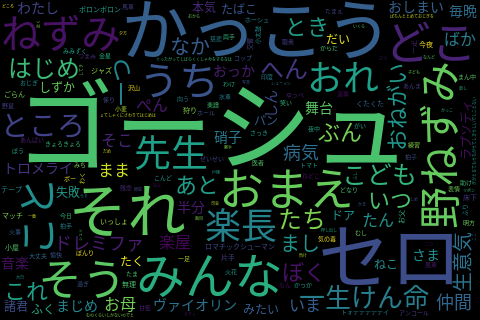
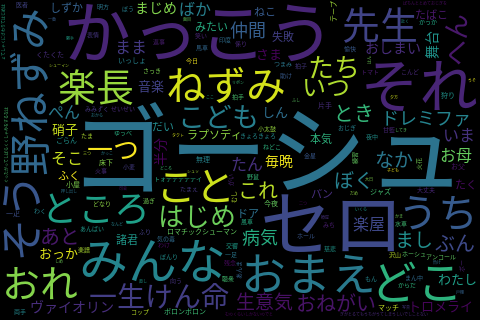
2020/01/22

diff --git a/templates/layout.html b/templates/layout.html
@@ -70,8 +70,8 @@
           <dl id="page_menu">
             <dt><a href="/">プレーンデータ</a></dt>
             <dt><a href="/word_cloud">ワードクラウド</a></dt>
-            <dt><a href="/transition">共起ネットワーク</a></dt>
-            <dt><a href="analyze">頻出度</a></dt>
+            <dt><a href="/cooc_net">共起ネットワーク</a></dt>
+            <dt><a href="/">頻出度</a></dt>
           </dl>
         </nav>
       </div>
@@ -88,16 +88,7 @@
         {% if message %} {{ message }} {% endif %}
       </div>
 
-      {% if text_contents %}
-      <div>
-        <span class="target_name">{{ target_file }}</span>
-        <hr>
-        <div id="text_contents">
-            {{ text_contents}}
-        </div>
-        <hr>
-      </div>
-      {% endif %}
+      
 
       <!-- ページに応じて変動するコンテンツ -->
       {% block content %}{% endblock %}

diff --git a/static/stylesheets/main.css b/static/stylesheets/main.css
@@ -155,15 +155,19 @@ div#center h2#content_title {
 }
 
 div#message{
-    width: 40%;
-    margin: 0 30%;
+    width: 50%;
+    margin: 0 25%;
     font-weight: bold;
     color: #4b4b4b;
 }
 
+div#text_contents_area{
+    margin: 0 15px;
+}
+
 div#text_contents{
     height: 60vh;
-    overflow-y: scroll;
+    overflow-y: auto;
 }
 
 /* ---------------------------------------
@@ -192,5 +196,19 @@ footer {
 
 img#word_cloud_img {
     width: 80%;
+    height: auto;
     margin: 5% 10%;
 }
+
+
+/* --------------------------------------------
+    共起ネットワーク作成ページ用のスタイル
+-------------------------------------------- */
+
+img#cooc_net_img {
+    width: 70%;
+    height: auto;
+    margin: 5% 10%;
+}
+
+

diff --git a/templates/index.html b/templates/index.html
@@ -1,5 +1,14 @@
 {% extends "layout.html" %} {% block content %}
 
-
+{% if text_contents %}
+<div id="text_contents_area">
+    <span class="target_name">{{ target_file }}</span>
+    <hr>
+    <div id="text_contents">
+        {{ text_contents}}
+    </div>
+    <hr>
+</div>
+{% endif %}
 
 {% endblock %}

diff --git a/templates/word_cloud.html b/templates/word_cloud.html
@@ -1,8 +1,8 @@
 {% extends "layout.html" %}{% block content %}
 
-{% if img_path %}
+{% if wc_img_path %}
 <div>
-  <img id="word_cloud_img" src="{{ img_path }}" alt="WordCloud">
+  <img id="word_cloud_img" src="{{ wc_img_path }}" alt="WordCloud">
 </div>
 {% endif %}
 

diff --git a/templates/cooc_net.html b/templates/cooc_net.html
@@ -1,0 +1,9 @@
+{% extends "layout.html" %}{% block content %}
+
+{% if co_img_path %}
+<div>
+  <img id="cooc_net_img" src="{{ co_img_path }}" alt="Co-OccurenceNetwork">
+</div>
+{% endif %}
+
+{% endblock %}

diff --git a/modules/cooccurence_network.py b/modules/cooccurence_network.py
@@ -11,6 +11,12 @@ import matplotlib.pyplot as plt
 import matplotlib
 import pandas as pd
 
+# 自作APIの読み込み
+# import read_from_csv
+# import write_to_csv
+# from modules import read_from_csv
+# from modules import write_to_csv
+
 matplotlib.rcParams['font.family'] = 'Yu Gothic'
 np.random.seed(0)
 
@@ -19,24 +25,31 @@ np.random.seed(0)
 mecab = MeCab.Tagger()
 mecab.parse('')
 
-
+# **************************************************
 # テキストデータの取得
+# **************************************************
+
+
 def read_txt_data():
-    csv = "../csv/txt_data.csv"
-    df = pd.read_csv(csv)
+    file_path = "./static/upload_file/test.txt"
+    with open(file_path, encoding="utf-8_sig") as f:
+        texts = f.read()
+        # print(texts)
 
-    ids = df['id']
-    dates = df['date']
-    texts = df['text']
+    return texts
 
-    return ids, dates, texts
+# **************************************************
+# 除外するワード
+# **************************************************
 
 
-def read_exclude_words():  # 除外するワード
-    csv = "../csv/exclude_words.csv"
-    df = pd.read_csv(csv)
+def read_exclude_words():
+    # csvから情報取得
+    file_path = "./csv/exclude_words.csv"
+    columns = ["exclude_words"]
+    ret_val = read_from_csv.run(file_path, columns)
 
-    exclude_words = df['exclude_words'].reset_index()['index'].tolist()
+    exclude_words = ret_val['exclude_words'].reset_index()['index'].tolist()
     return exclude_words
 
 
@@ -51,14 +64,15 @@ def pick_keywords(texts, exclude_words):
     node_count = defaultdict(int)
     edge_list = []
 
+    texts = texts.split('。')
     cnt = 0
-    for line in list(texts):
+    for line in texts:
         node = mecab.parseToNode(line)
         node_prev = None
         while node:
             w = node.surface
             w_type = node.feature.split(',')[0]
-            if (w_type in ["名詞"]) & (w not in exclude_words):
+            if (w_type in ["名詞", "動詞", "形容詞"]) & (w not in exclude_words):
                 # Nodeの処理
                 if w not in node_name.values():
                     node_name[cnt] = w
@@ -98,7 +112,7 @@ def gen_network(node_name, node_type, node_count, edge_list, edge_count, date):
     # Node: cnt >= 3で剪定
     # 破壊的操作なので、予め破壊用のグラフ(G2)と検索用グラフ(G)を分けておく
     for n, attr in G.nodes().items():
-        if (attr['cnt'] < 30):
+        if (attr['cnt'] < 3):
             G2.remove_edges_from(list(G.edges(n)))
             G2.remove_node(n)
 
@@ -106,7 +120,7 @@ def gen_network(node_name, node_type, node_count, edge_list, edge_count, date):
     # Edge: cnt >= 2で剪定
     # Edgeが無くなったNodeは、一旦そのまま
     for e, attr in G2.edges().items():
-        if attr['cnt'] < 30:
+        if attr['cnt'] < 2:
             G3.remove_edge(*e)
 
     G4 = deepcopy(G3)
@@ -121,11 +135,11 @@ def gen_network(node_name, node_type, node_count, edge_list, edge_count, date):
     pos = nx.layout.spring_layout(G_result, k=0.7)  # 2次元平面状の座標を計算
     labels = {n: node_name[n] for n in pos.keys()}  # Nodeに日本語を描画するための辞書
     # node_size = [np.log(node_count[n])*400 for n in pos.keys()] # 対数スケール
-    node_size = [node_count[n]*10 for n in pos.keys()]
+    node_size = [node_count[n]*15 for n in pos.keys()]
 
     edge_alpha = [edge_count[e] for e in G_result.edges()]
-    edge_colors = [edge_count[e] for e in G_result.edges()]
-    edge_width = [edge_count[e] * 0.08 for e in G_result.edges()]
+    edge_colors = [edge_count[e] *0.8 for e in G_result.edges()]
+    edge_width = [edge_count[e] *2.3 for e in G_result.edges()]
 
     # 描画
     fig, ax = plt.subplots(figsize=(12, 12))
@@ -137,15 +151,15 @@ def gen_network(node_name, node_type, node_count, edge_list, edge_count, date):
     nx.draw_networkx_nodes(G_result, pos,
                            nodelist=[n for n in G_result.nodes()
                                      if n in node_type["名詞"]],
-                           node_size=node_size, node_color="#f0f0f0", alpha=0.6, ax=ax)
-    # nx.draw_networkx_nodes(G_result, pos,
-    #                        nodelist=[n for n in G_result.nodes()
-    #                                  if n in node_type["動詞"]],
-    #                        node_size=node_size, node_color="yellowgreen", alpha=0.6, ax=ax)
-    # nx.draw_networkx_nodes(G_result, pos,
-    #                        nodelist=[n for n in G_result.nodes()
-    #                                  if n in node_type["形容詞"]],
-    #                        node_size=node_size, node_color="tomato", alpha=0.6, ax=ax)
+                           node_size=node_size, node_color="#4c7bc2", alpha=0.6, ax=ax)
+    nx.draw_networkx_nodes(G_result, pos,
+                           nodelist=[n for n in G_result.nodes()
+                                     if n in node_type["動詞"]],
+                           node_size=node_size, node_color="yellowgreen", alpha=0.6, ax=ax)
+    nx.draw_networkx_nodes(G_result, pos,
+                           nodelist=[n for n in G_result.nodes()
+                                     if n in node_type["形容詞"]],
+                           node_size=node_size, node_color="tomato", alpha=0.6, ax=ax)
 
     # edgeの色に濃淡をつけたいときは、edge_colorに数値のlistを代入してedge_cmapを使用
     # Sequentialなカラーマップから好きなやつを選ぶ
@@ -153,31 +167,21 @@ def gen_network(node_name, node_type, node_count, edge_list, edge_count, date):
     # 色の濃淡の具合はedge_vmin, edge_vmaxで調整
     nx.draw_networkx_edges(G_result, pos, alpha=0.6,
                            width=edge_width, edge_color=edge_colors,
-                           edge_vmin=0, edge_vmax=20,
+                           edge_vmin=0, edge_vmax=48,
                            edge_cmap=plt.cm.Blues, ax=ax)
     # Nodeにラベルをつけたいときは、以下の関数を使う
     # font_familyにPCに入っている日本語フォントを指定してあげると、日本語を描画してくれる
-    nx.draw_networkx_labels(G_result, pos, labels, font_size=12,
+    nx.draw_networkx_labels(G_result, pos, labels, font_size=32,
                             font_family="Yu Gothic", ax=ax)
 
-
-    plt.savefig("./img/%s.png" % date)
+    plt.savefig("./static/imgs/cooc_net.png")
     # plt.show()
 
 
 def start():
 
     exclude_words = read_exclude_words()
-    ids, dates, texts = read_txt_data()
-
-    # for i, txt in enumerate(texts):
-    #     # print("****")
-    #     # print(txt)
-    #     # print("<br />")
-    #     node_name, node_type, node_count, edge_list, edge_count = pick_keywords(
-    #         txt, exclude_words)
-    #     gen_network(node_name, node_type, node_count,
-    #                 edge_list, edge_count, dates[i])
+    texts = read_txt_data()
 
     node_name, node_type, node_count, edge_list, edge_count = pick_keywords(
         texts, exclude_words)
@@ -186,4 +190,13 @@ def start():
                 edge_list, edge_count, "test")
 
 
-start()
+def run(texts, exclude_words):
+    node_name, node_type, node_count, edge_list, edge_count = pick_keywords(
+        texts, exclude_words)
+
+    gen_network(node_name, node_type, node_count,
+                edge_list, edge_count, "test")
+
+
+if __name__ == "__main__":
+    start()

diff --git a/main.py b/main.py
@@ -41,10 +41,30 @@ def word_cloud_page():
     if 'target_file' in session:
         print("OK")
         target_file = session['target_file']
-        img_path = session['wc_img_path']
-        return render_template('word_cloud.html', message=message, title=title, con_title=con_title, target_file=target_file, img_path=img_path)
+        wc_img_path = session['wc_img_path']
+        return render_template('word_cloud.html', message=message, title=title, con_title=con_title, target_file=target_file, wc_img_path=wc_img_path)
     else:
         return render_template('word_cloud.html', message=message, title=title, con_title=con_title)
+
+
+
+# /* --------------------------------------------------------------
+#   共起ネットワーク
+# -------------------------------------------------------------- */
+
+@app.route('/cooc_net')
+def cooc_net_page():
+    title = "TEA | 共起ネットワークの作成"
+    con_title = "共起ネットワーク"
+    message = "関連するキーワード同士を結んだネットワークです。"
+
+    if 'target_file' in session:
+        print("OK")
+        target_file = session['target_file']
+        co_img_path = session['co_img_path']
+        return render_template('cooc_net.html', message=message, title=title, con_title=con_title, target_file=target_file, co_img_path=co_img_path)
+    else:
+        return render_template('cooc_net.html', message=message, title=title, con_title=con_title)
 
 
 @app.route('/upload_file', methods=['GET', 'POST'])
@@ -80,8 +100,13 @@ def post():
             # *****************************************
             img_path = preprocessing.start()
             url = url_for("index", _external=True)
-            path = url + img_path
-            session['wc_img_path'] = path
+            wc_path = url + img_path[0]
+            co_path = url + img_path[1]
+            print(wc_path)
+            print(co_path)
+
+            session['wc_img_path'] = wc_path
+            session['co_img_path'] = co_path
 
             target_file = filename
             text_contents = open_text.run(target_file)

diff --git a/modules/preprocessing.py b/modules/preprocessing.py
@@ -10,6 +10,7 @@ from modules import read_from_csv
 from modules import write_to_csv
 from modules import exclude_keywords
 from modules import word_cloud_generator
+from modules import cooccurence_network
 
 
 def read_txt_data():
@@ -93,13 +94,31 @@ def start():
     texts = read_txt_data()
     # 除外リストの読み込み
     exclude_words = read_exclude_words()
+
+    # **********************************************************
+    #   ワードクラウドの作成
+    # **********************************************************
+
     # 単語に分解
     _words = create_array(texts)
     # リスト内の文字列を除外
     words = exclude_keywords.do_exclude(_words, exclude_words)
     # ワードクラウド作成
     word_cloud_generator.genWordCloud(words)
-    return "static/imgs/wordcloud.png"
+
+
+    # **********************************************************
+    #   共起ネットワークの作成
+    # **********************************************************
+
+    cooccurence_network.run(texts, exclude_words)
+
+
+    # **********************************************************
+    #   処理完了を知らせるための戻り値を返す
+    # **********************************************************
+
+    return ["static/imgs/wordcloud.png", "static/imgs/cooc_net.png"]
 
 
 if __name__ == "__main__":
